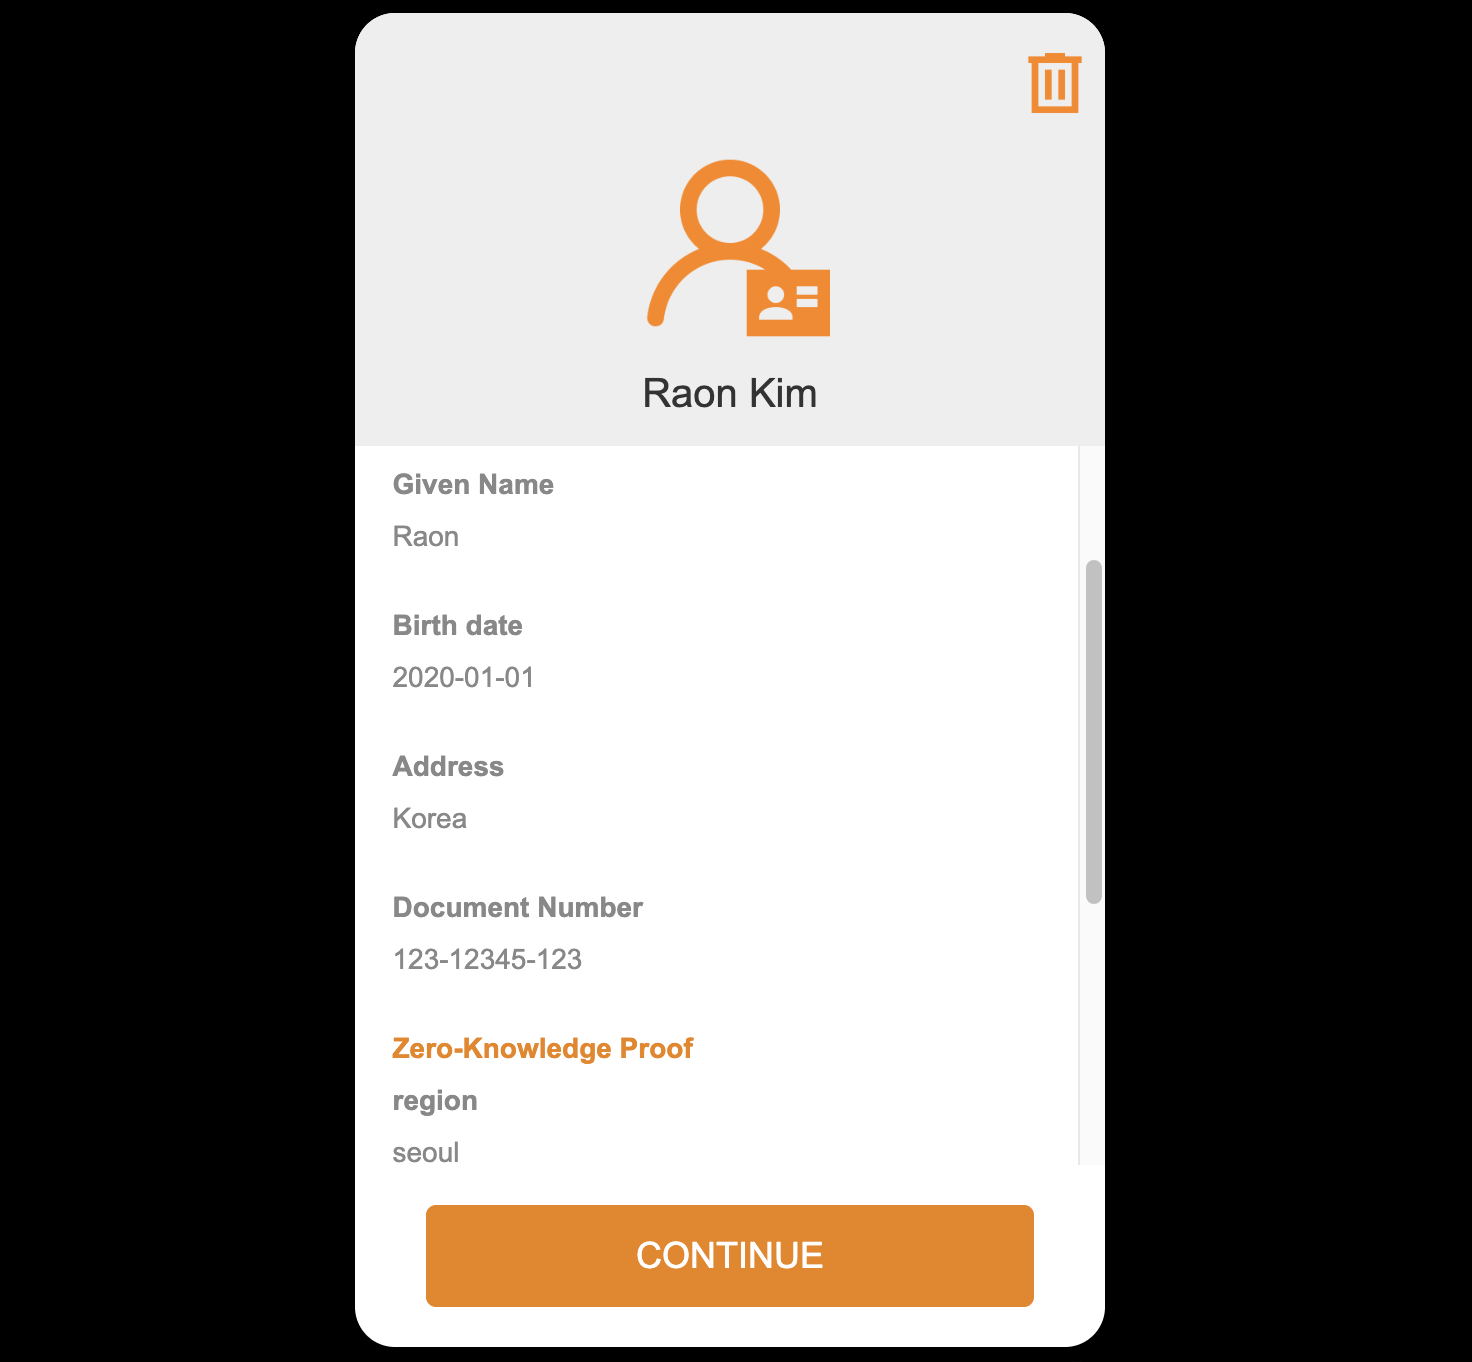
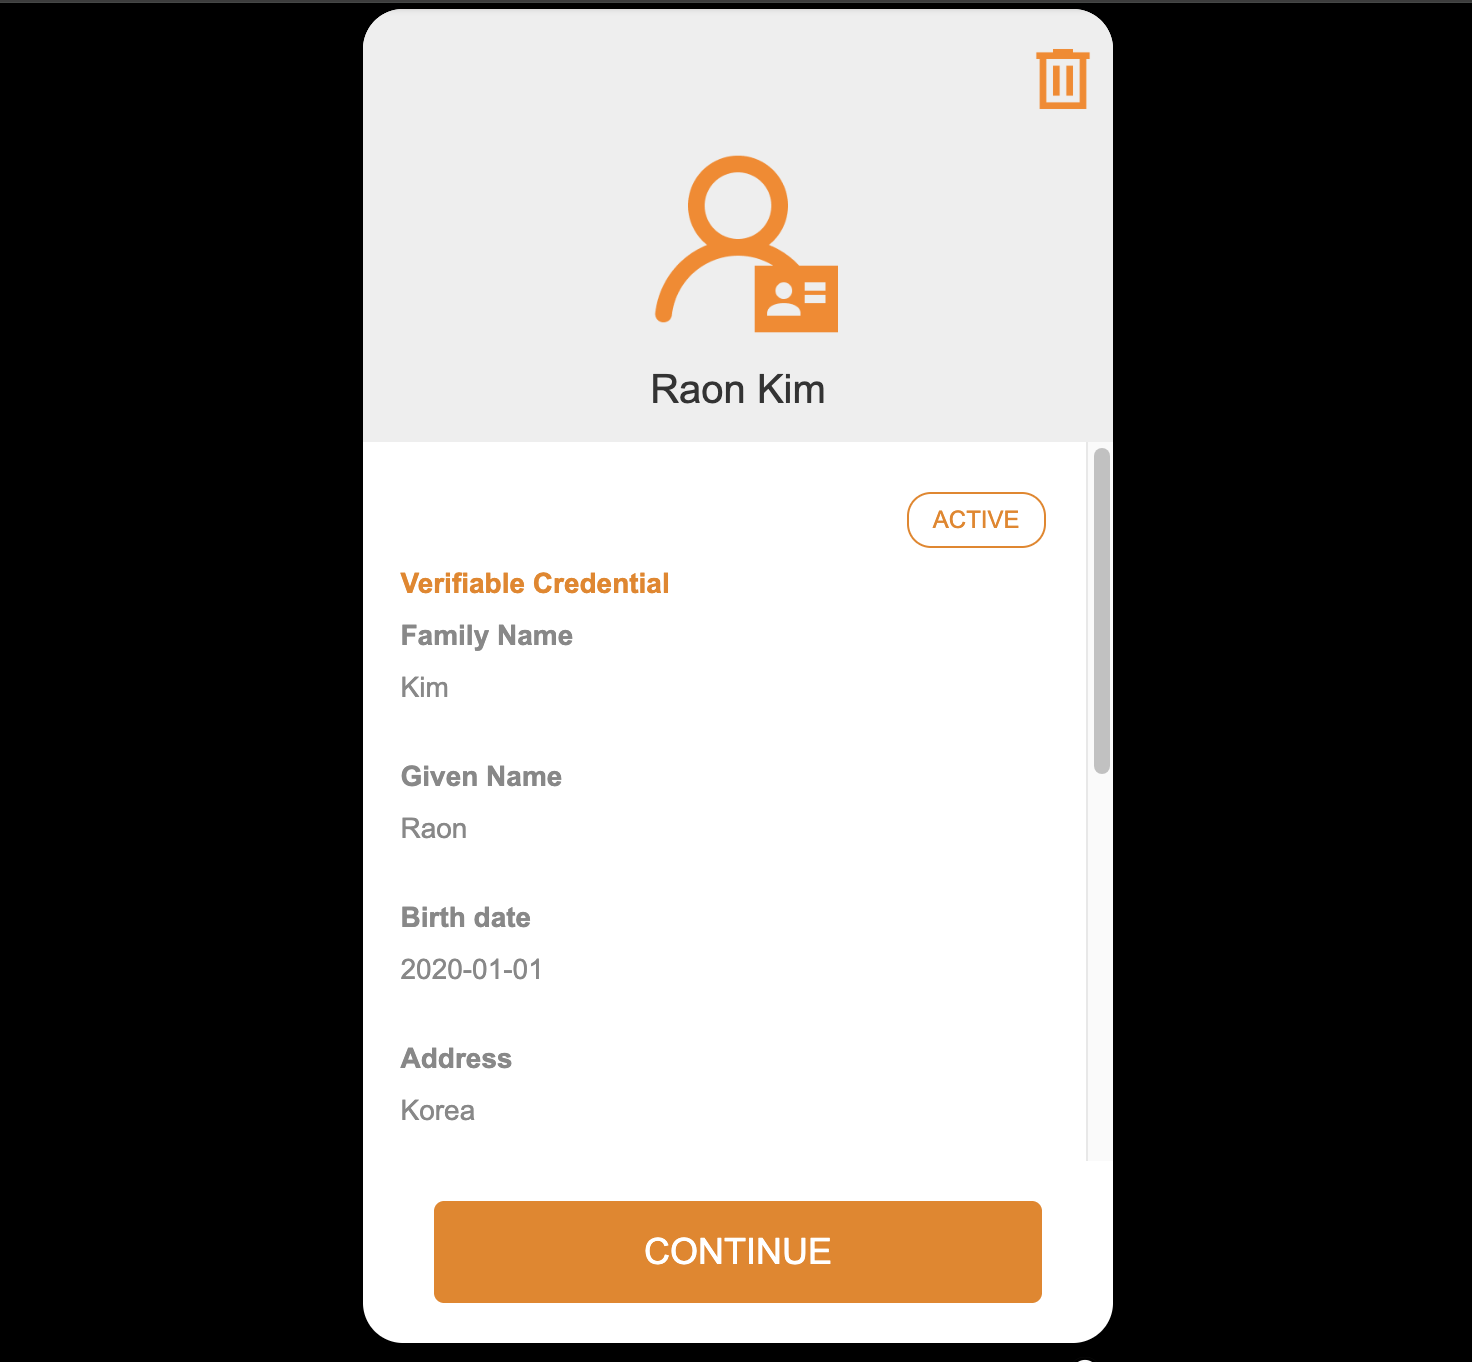
docs: modify guide document

diff --git a/v2.0.0.0/guide/demoapp_detail_guide_ko.md b/v2.0.0.0/guide/demoapp_detail_guide_ko.md
@@ -61,7 +61,8 @@
 <img src="./images/main2.png" width="600" height="500"/>
 
 - VC가 발급된 경우에는 VC 목록이 화면에 표시됩니다.
-- 본데모에서는 mDL에 ZKP Credential이 포함되어 있기때문에 포함여부도 확인 할 수 있습니다. 
+- 본데모에서는 mDL에 ZKP Credential이 포함되어 있기때문에 포함여부도 확인 할 수 있습니다.
+- VC상태에 따라서 ACTIVE, INACTIVE, REVOKED의 세가지 상태가 있는데 본데모에서는 ACTIVE 상태만 표시합니다. 
 
 - 하단에는 다음 두 개의 버튼이 존재합니다:
   - ADD VC: 사용자 주도(User Initiated) 방식으로 VC를 발급합니다.

diff --git a/v2.0.0.0/guide/demoapp_detail_guide.md b/v2.0.0.0/guide/demoapp_detail_guide.md
@@ -57,7 +57,8 @@
 <img src="./images/main2.png" width="600" height="500"/>
 
 - Once VCs are issued, they are displayed in a list.
-- This demo includes mDL with ZKP Credential, allowing confirmation of its inclusion.  
+- This demo includes mDL with ZKP Credential, allowing confirmation of its inclusion.
+- There are three possible VC statuses: ACTIVE, INACTIVE, and REVOKED, but this demo only displays the ACTIVE status.
 
 - Two buttons are available at the bottom:
   - ADD VC: Issues VC through User Initiated method.  
